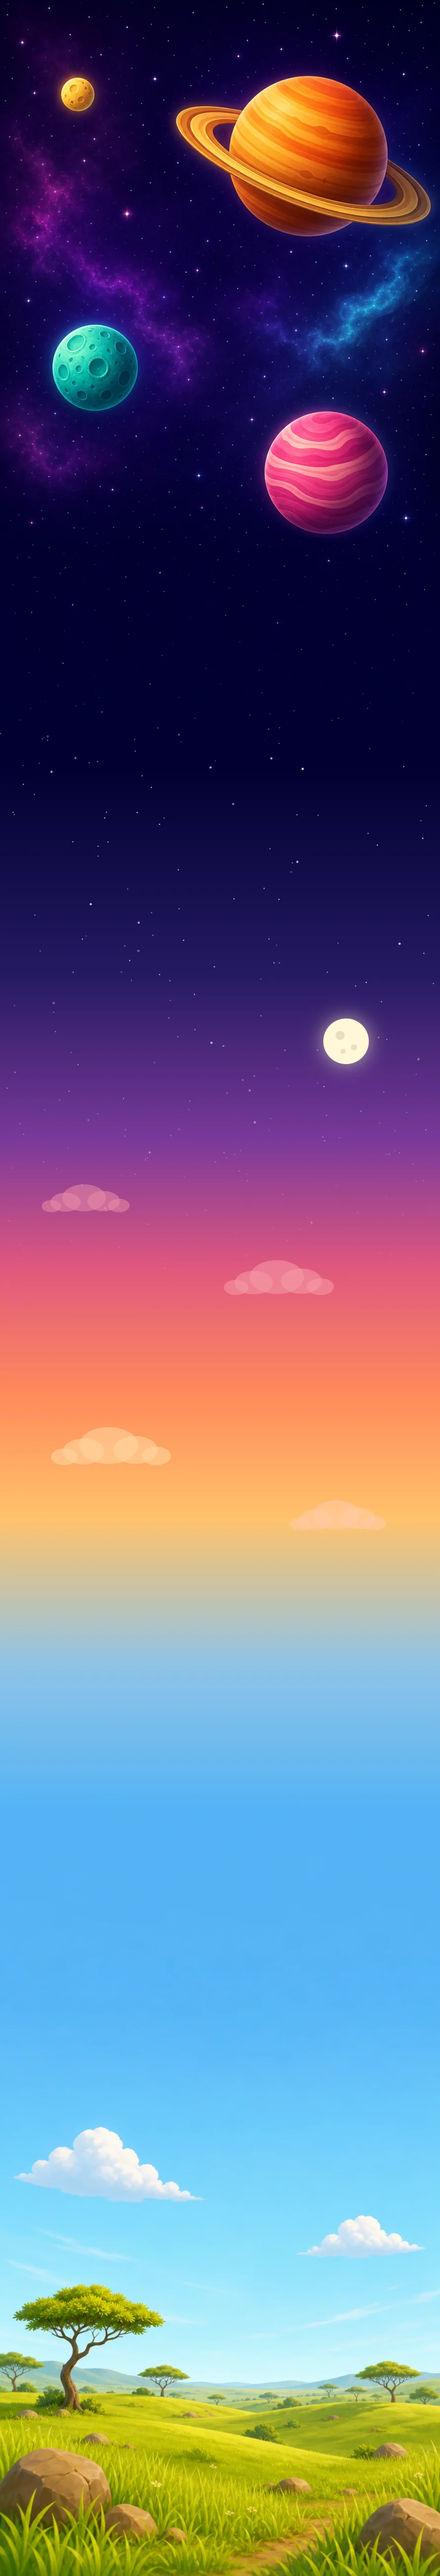
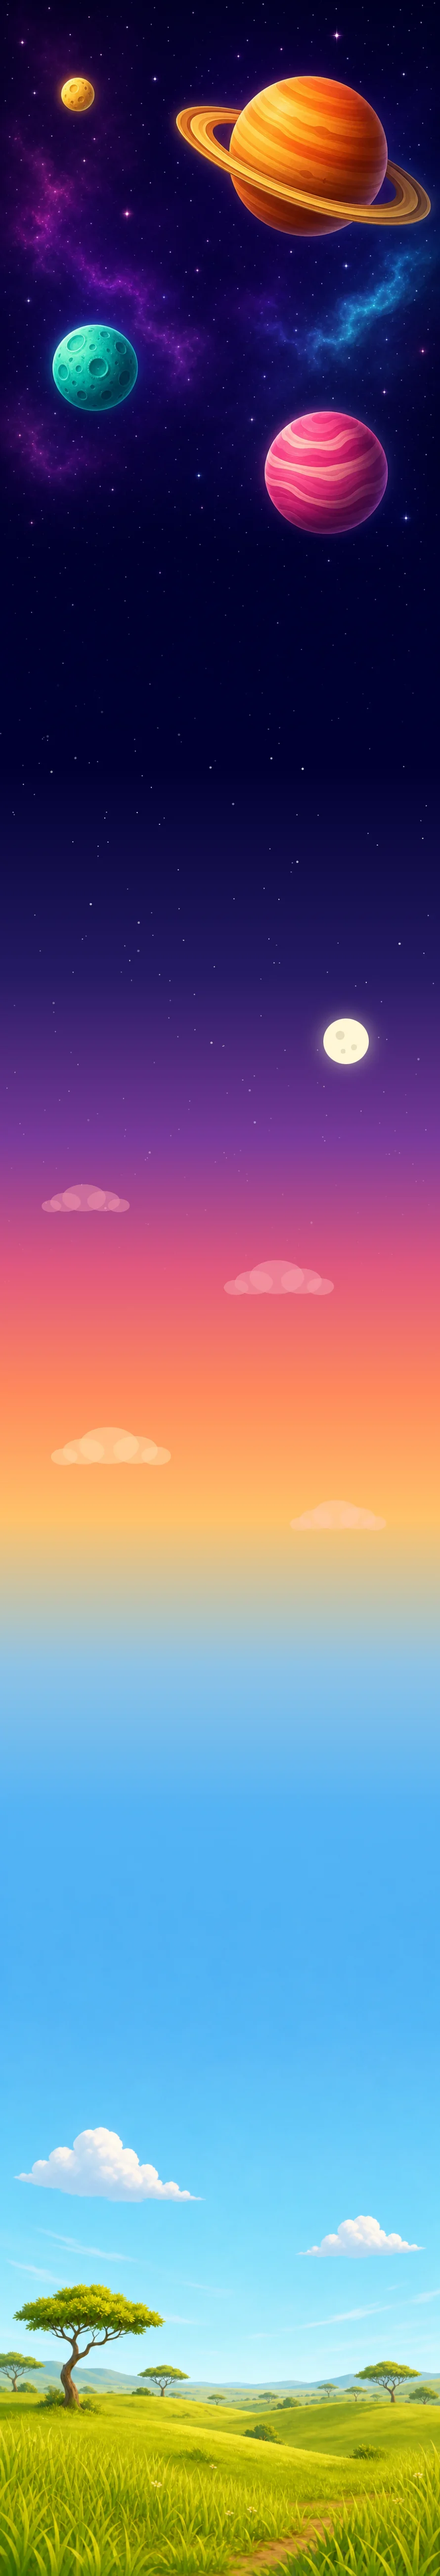
Fortune Neck: tira as pedras do campo

Changed region(s): [[0.0, 0.9035, 0.4247, 0.9969], [0.7888, 0.9035, 1.0, 0.9969], [0.6371, 0.9346, 0.6978, 0.9658]]

diff --git a/Fortune Neck.dc.html b/Fortune Neck.dc.html
@@ -39,7 +39,7 @@ a { color: #ffd257; text-decoration: none; } a:hover { color: #fff1b8; }
     </sc-if>
     <!-- cena -->
     <div onPointerDown="{{ swDown }}" onPointerUp="{{ swUp }}" style="position: absolute; left: 0; top: 86px; width: 453px; height: 546px; overflow: hidden; touch-action: none; border-top: 3px solid #f0b41f; border-bottom: 3px solid #f0b41f; box-shadow: 0 0 0 2px #5a1f05;">
-      <div style="position: absolute; left: 0; bottom: 0; width: 445px; height: 2600px; transform: translateY({{ camY }}px); transition: transform .55s cubic-bezier(.3,.7,.3,1); background: #00002f url('assets/neck/bg-sky.webp') center bottom / 445px 2600px no-repeat;">
+      <div style="position: absolute; left: 0; bottom: 0; width: 445px; height: 2600px; transform: translateY({{ camY }}px); transition: transform .55s cubic-bezier(.3,.7,.3,1); background: #00002f url('assets/neck/bg-sky.webp?v=2') center bottom / 445px 2600px no-repeat;">
         <div style="position: absolute; left: 0; right: 0; bottom: 0; height: 40px; background: linear-gradient(180deg, rgba(74,140,40,0) 0%, rgba(58,112,30,.75) 45%, #3f6e1e 100%);"></div>
         <div style="position: absolute; left: 408px; bottom: 30px; width: 64px; height: 2500px; border-radius: 32px 32px 0 0; background: url('assets/neck/trunk-tile.webp') 0 0 / 64px 220px repeat-y; filter: saturate({{ trunkSat }}) drop-shadow(-4px 0 6px rgba(40,10,30,.35));"></div>
         <sc-for list="{{ floors }}" as="f" hint-placeholder-count="20">

diff --git a/guidelines/asset-pipeline.md b/guidelines/asset-pipeline.md
@@ -83,3 +83,4 @@ Formato: "Isso tende a falhar porque X. Para acertar preciso de Y. Custo estimad
 
 - 2026-10-13 · Fortune Neck fundo savana + tronco + galho · Meshy text-to-image gpt-image-2, 3 tarefas em 1 lote (prompt de estilo comum; tronco/galho em fundo magenta p/ chroma key) · ~36 cr (687→~651) · OK de 1ª. Fundo: imagem 9:16 no pé da coluna + céu estendido em código; tronco: recorte + costura cruzada p/ repetir.
 - 2026-10-13 · Fortune Neck céu dia→pôr do sol→noite→espaço · Meshy text-to-image gpt-image-2, 2 tarefas (savana de dia + espaço com planetas, 9:16) · ~24 cr · OK de 1ª. Montagem em código: dia no pé, espaço no topo, faixa do meio = degradê azul→laranja→rosa→roxo→marinho + nuvens, estrelas e lua desenhadas; bordas das imagens com fade (assets/neck/bg-sky.webp 890×5200).
+- 2026-10-13 · Fortune Neck: pedras do campo removidas (atrás da girafa) · Meshy image-to-image gpt-image-2 "faithful copy, remove all rocks" · ~12 cr · OK de 1ª.
